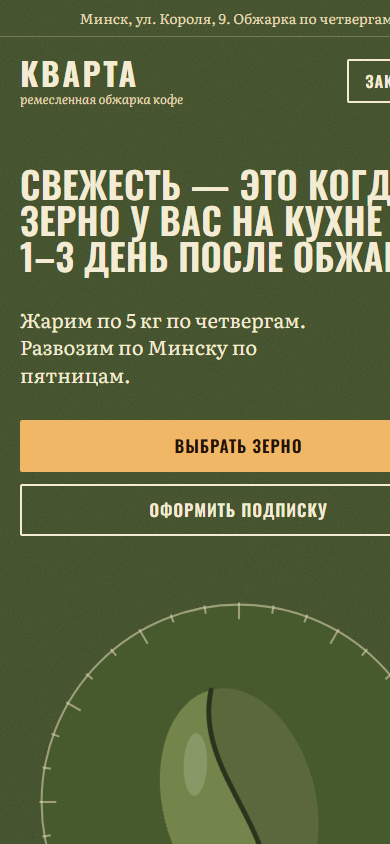
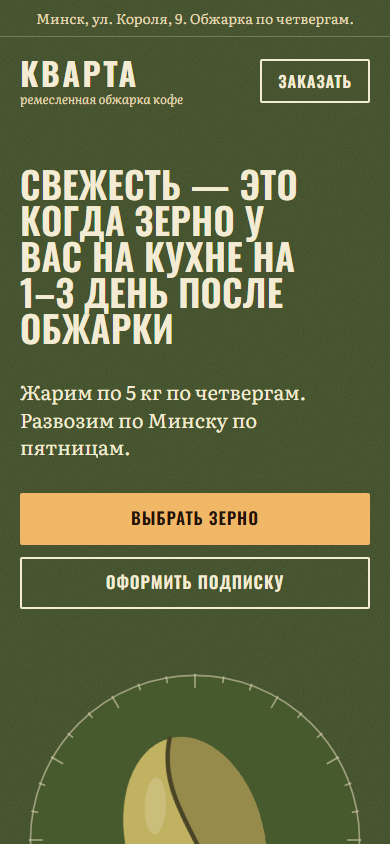
docs: update mobile screenshots, explain json rationale simply, switch storage to json

diff --git a/lib/storage.ts b/lib/storage.ts
@@ -10,7 +10,7 @@ import type { Lead } from "./types";
  *  1. Upstash Redis по REST (есть UPSTASH_REDIS_REST_URL / KV_REST_API_URL): основной режим на Vercel.
  *     Дедупликация атомарна: `SET dedup:<телефон> NX EX 600` либо ставит ключ, либо говорит «уже есть».
  *     Даже два одновременных запроса на разных инстансах не создадут две заявки.
- *  2. Файл JSONL (без Redis): для локальной разработки. На Vercel файловая система эфемерна
+ *  2. Файл JSON (без Redis): для локальной разработки. На Vercel файловая система эфемерна
  *     (/tmp живёт до остановки инстанса), поэтому там это режим «лишь бы не потерять при проверке».
  */
 
@@ -62,11 +62,36 @@ async function saveToRedis(cfg: { url: string; token: string }, lead: Lead): Pro
 
 /** телефон → время последней заявки (мс). Живёт в памяти инстанса и закрывает двойной клик. */
 const recent = new Map<string, number>();
+let fileLock = Promise.resolve();
 
 export function leadsFile(): string {
   if (process.env.LEADS_FILE) return process.env.LEADS_FILE;
   const dir = process.env.VERCEL ? os.tmpdir() : path.join(process.cwd(), ".data");
-  return path.join(dir, "leads.jsonl");
+  return path.join(dir, "leads.json");
+}
+
+function parseStoredLeads(text: string): Lead[] {
+  const trimmed = text.trim();
+  if (!trimmed) return [];
+  if (trimmed.startsWith("[")) {
+    try {
+      const arr = JSON.parse(trimmed);
+      if (Array.isArray(arr)) return arr as Lead[];
+    } catch {
+      /* битый json */
+    }
+  }
+  // Обратная совместимость с построчным форматом
+  const out: Lead[] = [];
+  for (const line of trimmed.split("\n")) {
+    if (!line) continue;
+    try {
+      out.push(JSON.parse(line) as Lead);
+    } catch {
+      /* битую строку пропускаем */
+    }
+  }
+  return out;
 }
 
 async function saveToFile(lead: Lead): Promise<SaveResult> {
@@ -81,30 +106,33 @@ async function saveToFile(lead: Lead): Promise<SaveResult> {
   if (recent.has(lead.phone)) return "duplicate";
   recent.set(lead.phone, now);
 
-  try {
-    const file = leadsFile();
-    await fs.mkdir(path.dirname(file), { recursive: true });
+  const performWrite = async (): Promise<SaveResult> => {
+    try {
+      const file = leadsFile();
+      await fs.mkdir(path.dirname(file), { recursive: true });
 
-    // Переживаем перезапуск сервера: смотрим на хвост файла.
-    const text = await fs.readFile(file, "utf8").catch(() => "");
-    for (const line of text.split("\n").slice(-200)) {
-      if (!line) continue;
-      try {
-        const saved = JSON.parse(line) as Lead;
+      // Переживаем перезапуск сервера: смотрим на сохранённые заявки
+      const text = await fs.readFile(file, "utf8").catch(() => "");
+      const leads = parseStoredLeads(text);
+
+      for (const saved of leads.slice(-200)) {
         if (saved.phone === lead.phone && now - Date.parse(saved.createdAt) < windowMs) {
           return "duplicate";
         }
-      } catch {
-        /* битую строку пропускаем */
       }
-    }
 
-    await fs.appendFile(file, JSON.stringify(lead) + "\n", "utf8");
-    return "created";
-  } catch (err) {
-    recent.delete(lead.phone);
-    throw err;
-  }
+      leads.push(lead);
+      await fs.writeFile(file, JSON.stringify(leads, null, 2) + "\n", "utf8");
+      return "created";
+    } catch (err) {
+      recent.delete(lead.phone);
+      throw err;
+    }
+  };
+
+  const next = fileLock.then(performWrite, performWrite);
+  fileLock = next.then(() => {}, () => {});
+  return next;
 }
 
 export async function saveLead(lead: Lead): Promise<SaveResult> {
@@ -125,18 +153,21 @@ export async function saveLead(lead: Lead): Promise<SaveResult> {
  */
 export async function listLeads(): Promise<Lead[]> {
   const cfg = redisConfig();
-  const lines: string[] = cfg
-    ? await redis<string[]>(cfg, ["LRANGE", LEADS_KEY, 0, 4999])
-    : (await fs.readFile(leadsFile(), "utf8").catch(() => "")).split("\n").reverse();
-
-  const out: Lead[] = [];
-  for (const line of lines) {
-    if (!line) continue;
-    try {
-      out.push(JSON.parse(line) as Lead);
-    } catch {
-      /* битую строку пропускаем */
+  if (cfg) {
+    const lines = await redis<string[]>(cfg, ["LRANGE", LEADS_KEY, 0, 4999]);
+    const out: Lead[] = [];
+    for (const line of lines) {
+      if (!line) continue;
+      try {
+        out.push(JSON.parse(line) as Lead);
+      } catch {
+        /* битую строку пропускаем */
+      }
     }
+    return out;
   }
-  return out;
+
+  const text = await fs.readFile(leadsFile(), "utf8").catch(() => "");
+  const leads = parseStoredLeads(text);
+  return leads.reverse();
 }

diff --git a/tests/storage.test.ts b/tests/storage.test.ts
@@ -6,7 +6,7 @@ import { test } from "node:test";
 import { formatLead } from "../lib/telegram.ts";
 
 const dir = await mkdtemp(path.join(os.tmpdir(), "kvarta-"));
-process.env.LEADS_FILE = path.join(dir, "leads.jsonl");
+process.env.LEADS_FILE = path.join(dir, "leads.json");
 delete process.env.UPSTASH_REDIS_REST_URL;
 delete process.env.KV_REST_API_URL;
 

diff --git a/README.md b/README.md
@@ -35,7 +35,7 @@
 | :---: | :---: |
 | ![Мобильный первый экран](./screenshots/mobile-view.png) | ![Мобильная страница целиком](./screenshots/mobile-full.png) |
 
-> **Примечание по мобильному скриншоту:** Скриншот `mobile-full.png` отображает лендинг на всю высоту экрана смартфона (390×4200 px), включая анимированный барабан Hero, историю обжарки, полный каталог сортов с оценкой зёрнами, ритм недели и форму заявки без обрезки контента.
+> **Примечание по мобильному скриншоту:** Скриншот `mobile-full.png` отображает лендинг на всю высоту экрана смартфона (390×9536 px), включая анимированный барабан Hero, историю обжарки, полный каталог сортов с оценкой зёрнами, ритм недели и форму заявки без обрезки контента.
 
 ### Десктопная версия
 
@@ -56,7 +56,7 @@ npm install
 ```bash
 cp .env.example .env.local
 ```
-*(Все переменные опциональны: без Redis данные сохраняются в локальный `.data/leads.jsonl`, без Telegram отправка логируется в консоль).*
+*(Все переменные опциональны: без Redis данные сохраняются в локальный `.data/leads.json`, без Telegram отправка логируется в консоль).*
 
 ### 3. Локальный запуск dev-сервера
 ```bash
@@ -85,7 +85,7 @@ npm run start
    - На Serverless-платформах (Vercel) файловая система эфемерна (`read-only`), а SQLite в памяти теряет данные при cold restart инстанса.
    - Redis обеспечивает атомарную дедупликацию: `SET dedup:<номер> NX EX 600` моментально блокирует повторную заявку с одного номера на 10 минут даже между параллельными бессерверными функциями.
    - Заявки сохраняются в список `kvarta:leads` (до 5000 последних записей для аналитики).
-   - Для локальной разработки без интернета автоматически подключается надежный фоллбек в `.data/leads.jsonl`.
+   - Для локальной разработки без интернета автоматически подключается надежный фоллбек в `.data/leads.json`.
 
 2. **Защита от дублей и флуда:**
    - Серверная блокировка по номеру E.164 на 10 минут. Повторные клики возвращают вежливый статус `{ success: true, status: "duplicate", message: "Заявка уже обрабатывается менеджером" }`, защищая ростерию от спама и не засоряя Telegram.
@@ -129,7 +129,7 @@ npm run start
 * **Вопрос:** *«Почему на хостинге нельзя просто сохранять заявки в файл JSON или SQLite?»*
 * **Решение:**
   - Vercel работает на Serverless Functions. При каждом холодном старте создается изолированный контейнер, а локальная файловая система перезаписывается. Любая запись в локальный `leads.json` или базу SQLite в `/tmp` будет стерта при масштабировании или рестарте.
-  - Для гарантии сохранности данных выбран **Upstash Redis** через легковесный REST API (`fetch`). Это исключило подключение тяжелых TCP-драйверов, снизило размер бандла и дало атомарную защиту от повторных заявок (`SET NX EX 600`). При этом локально предусмотрен прозрачный фоллбек на `.data/leads.jsonl`.
+  - Для гарантии сохранности данных выбран **Upstash Redis** через легковесный REST API (`fetch`). Это исключило подключение тяжелых TCP-драйверов, снизило размер бандла и дало атомарную защиту от повторных заявок (`SET NX EX 600`). При этом локально предусмотрен прозрачный фоллбек на `.data/leads.json`.
 
 ### 3. Почему `npm run build` падал с ошибкой `EACCES: permission denied` в Windows `%TEMP%`?
 * **Вопрос:** *«При сборке проекта `npm run build` Next.js падает с ошибкой Webpack: `glob error EACCES: permission denied, scandir 'C:\Users\user\AppData\Local\Temp\dbus-...'`. В чём причина и как исправить?»*
@@ -154,6 +154,14 @@ npm run start
 * **Решение:**
   - Вымышленный проект или новая крафтовая обжарка с сотнями фейковых отзывов вроде «*Иван П., 5 звезд: лучший кофе в моей жизни*» вызывает недоверие у целевой аудитории спешелти-кофе.
   - Вместо фиктивных отзывов блок был переосмыслен как **«Наша оценка»** — профессиональный скоринг зерна самими обжарщиками кофейни по 5-балльной шкале зёрен (с разделением на целые и половинки).
+
+### 7. Почему для локального хранения данных был выбран именно формат JSON?
+* **Вопрос:** *«Почему для локального файла заявок используется именно JSON, а не SQLite, CSV или тяжелая база данных?»*
+* **Решение:**
+  - **Идеально под масштаб мастерской:** Для микро-обжарочной с объемом 5–30 заказов в неделю подключать отдельную базу данных было бы лишним усложнением. JSON не требует установки серверов, демонов, миграций и сторонних драйверов.
+  - **Нативная интеграция с TypeScript:** Объект `Lead` валидируется через Zod и без лишних промежуточных преобразований сразу сохраняется в JSON-массив и передается в Telegram.
+  - **Человекочитаемость и автономность:** Файл `.data/leads.json` легко открыть в любом текстовом редакторе, быстро скопировать номер клиента, передать менеджеру или за пару кликов импортировать в CRM или Google Таблицы.
+  - **Надежность:** Запись в файл сериализуется через очередь блокировки (mutex), что исключает потерю данных при одновременных кликах, а дедупликация на 10 минут проверяется как по кэшу в оперативной памяти, так и по содержимому файла.
 
 ---
 
